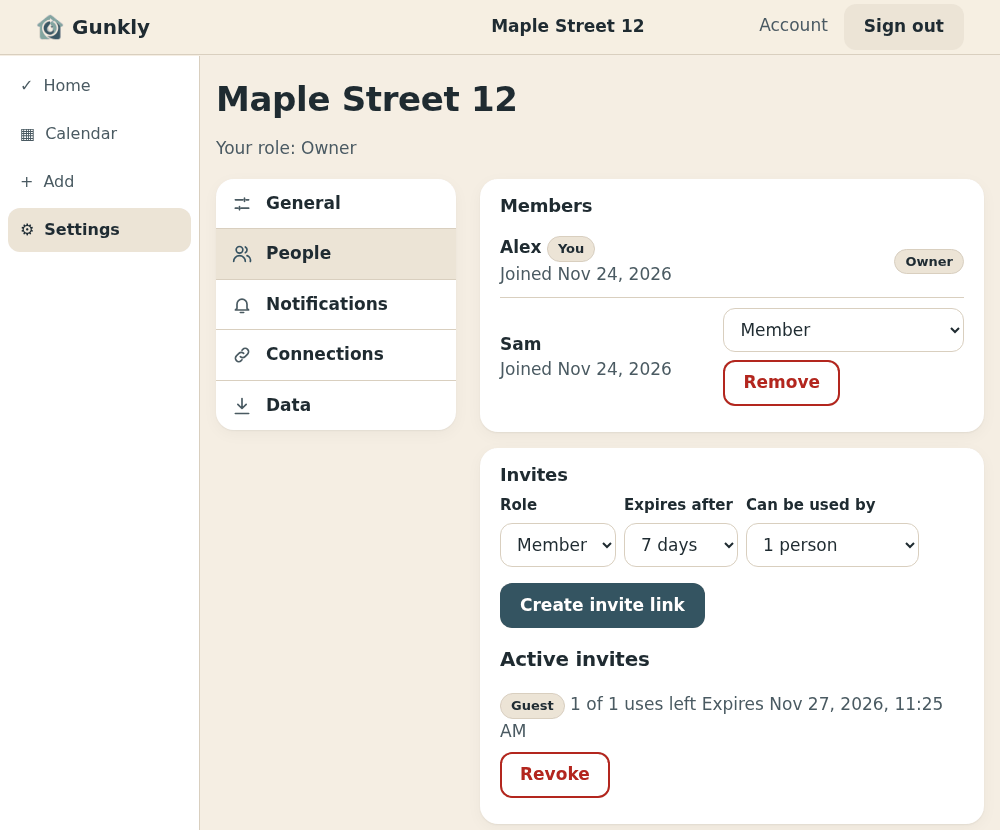
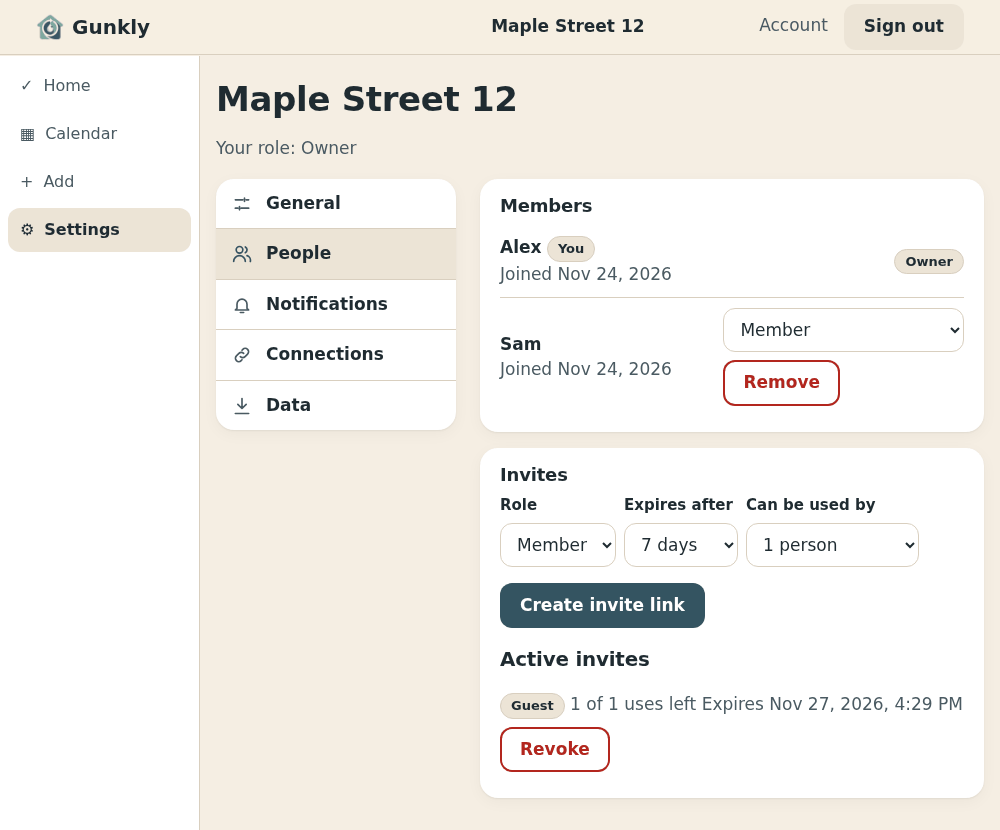
Sign-in: alternative ways in (passkey, single sign-on) under an 'or' divider, full width and spaced; cleaner screenshots (realistic provider name, Passkeys card without the sticky header)

Changed region(s): [[0.465, 0.8735, 0.992, 0.994], [0.899, 0.8434, 0.961, 0.8735]]

diff --git a/web/e2e/screenshots.spec.ts b/web/e2e/screenshots.spec.ts
@@ -60,9 +60,16 @@ test('README and website screenshots', async ({ world, browser }) => {
   {
     const context = await world.newContext({ viewport: { width: 420, height: 820 }, deviceScaleFactor: 1.5, colorScheme: 'light' });
     const page = await context.newPage();
+    // Show a realistic provider name in the docs instead of the e2e fake provider's "Test IdP".
+    await page.route('**/api/v1/instance', async (route) => {
+      const res = await route.fetch();
+      const body = await res.json();
+      if (body.sso) body.sso.name = 'Authelia';
+      await route.fulfill({ response: res, json: body });
+    });
     await page.goto('/signin');
     await expect(page.getByRole('button', { name: 'Sign in with a passkey' })).toBeVisible();
-    await expect(page.getByRole('link', { name: 'Sign in with Test IdP' })).toBeVisible();
+    await expect(page.getByRole('link', { name: 'Sign in with Authelia' })).toBeVisible();
     await setTheme(page, 'light');
     await page.waitForTimeout(400);
     await page.screenshot({ path: OUT + 'signin-passkey-sso-phone-light.png' });
@@ -95,10 +102,15 @@ test('README and website screenshots', async ({ world, browser }) => {
     await expect(section.getByText('Alex’s laptop')).toBeVisible();
     await setTheme(page, 'dark');
     await expect(page.getByText('Passkey added.')).toHaveCount(0); // the toast is gone
-    await section.evaluate((el) => el.scrollIntoView({ block: 'start' }));
-    await page.evaluate(() => window.scrollBy(0, -80)); // keep the section heading below the header
     await page.waitForTimeout(400);
-    await page.screenshot({ path: OUT + 'account-security-passkey-desktop-dark.png' });
+    // Just the Passkeys card, cropped from a window tall enough that the page never scrolls, so the
+    // sticky header can't overlap it.
+    await page.setViewportSize({ width: 1000, height: 2400 });
+    await page.evaluate(() => window.scrollTo(0, 0));
+    await page.waitForTimeout(300);
+    const box = await section.boundingBox();
+    if (!box) throw new Error('Passkeys card not visible');
+    await page.screenshot({ path: OUT + 'account-security-passkey-desktop-dark.png', clip: { x: box.x - 16, y: box.y - 16, width: box.width + 32, height: box.height + 32 } });
     await context.close();
   }
 });

diff --git a/web/src/screens/SignIn.svelte b/web/src/screens/SignIn.svelte
@@ -132,13 +132,18 @@
       >
     {/if}
   </form>
-  {#if !needSecond && passkeyReady}
-    <Button variant="quiet" {busy} onclick={() => withPasskey(false)}>{t('signIn.passkey')}</Button>
-  {/if}
-  {#if !needSecond && app.instance.sso}
-    <a class="btn btn-quiet" href="/api/v1/auth/oidc/start?next={encodeURIComponent(next)}"
-      >{app.instance.sso.name ? t('signIn.ssoNamed', { name: app.instance.sso.name }) : t('signIn.sso')}</a
-    >
+  {#if !needSecond && (passkeyReady || app.instance.sso)}
+    <div class="stack-sm alternatives">
+      <p class="or">{t('signIn.or')}</p>
+      {#if passkeyReady}
+        <Button variant="quiet" {busy} onclick={() => withPasskey(false)}>{t('signIn.passkey')}</Button>
+      {/if}
+      {#if app.instance.sso}
+        <a class="btn btn-quiet" href="/api/v1/auth/oidc/start?next={encodeURIComponent(next)}"
+          >{app.instance.sso.name ? t('signIn.ssoNamed', { name: app.instance.sso.name }) : t('signIn.sso')}</a
+        >
+      {/if}
+    </div>
   {/if}
   {#if !needSecond}
     <div class="row">
@@ -147,3 +152,23 @@
     </div>
   {/if}
 </section>
+
+<style>
+  .alternatives {
+    margin-block: var(--space);
+  }
+  .or {
+    display: flex;
+    align-items: center;
+    gap: 12px;
+    margin: 0;
+    color: var(--text-2);
+    font-size: 0.875rem;
+  }
+  .or::before,
+  .or::after {
+    content: '';
+    flex: 1;
+    border-block-start: 1px solid var(--border);
+  }
+</style>
